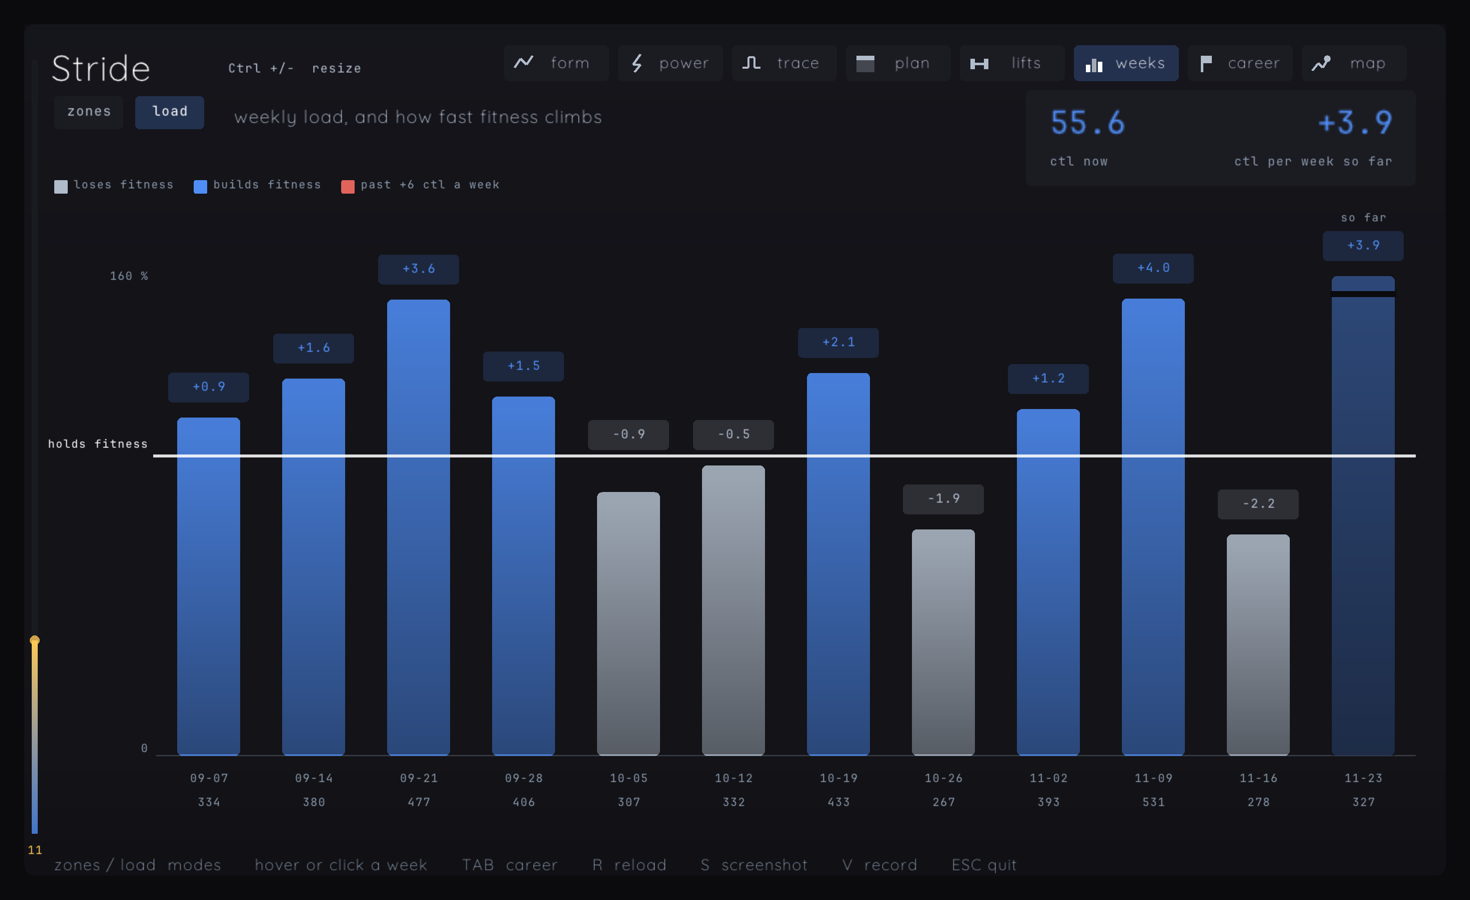
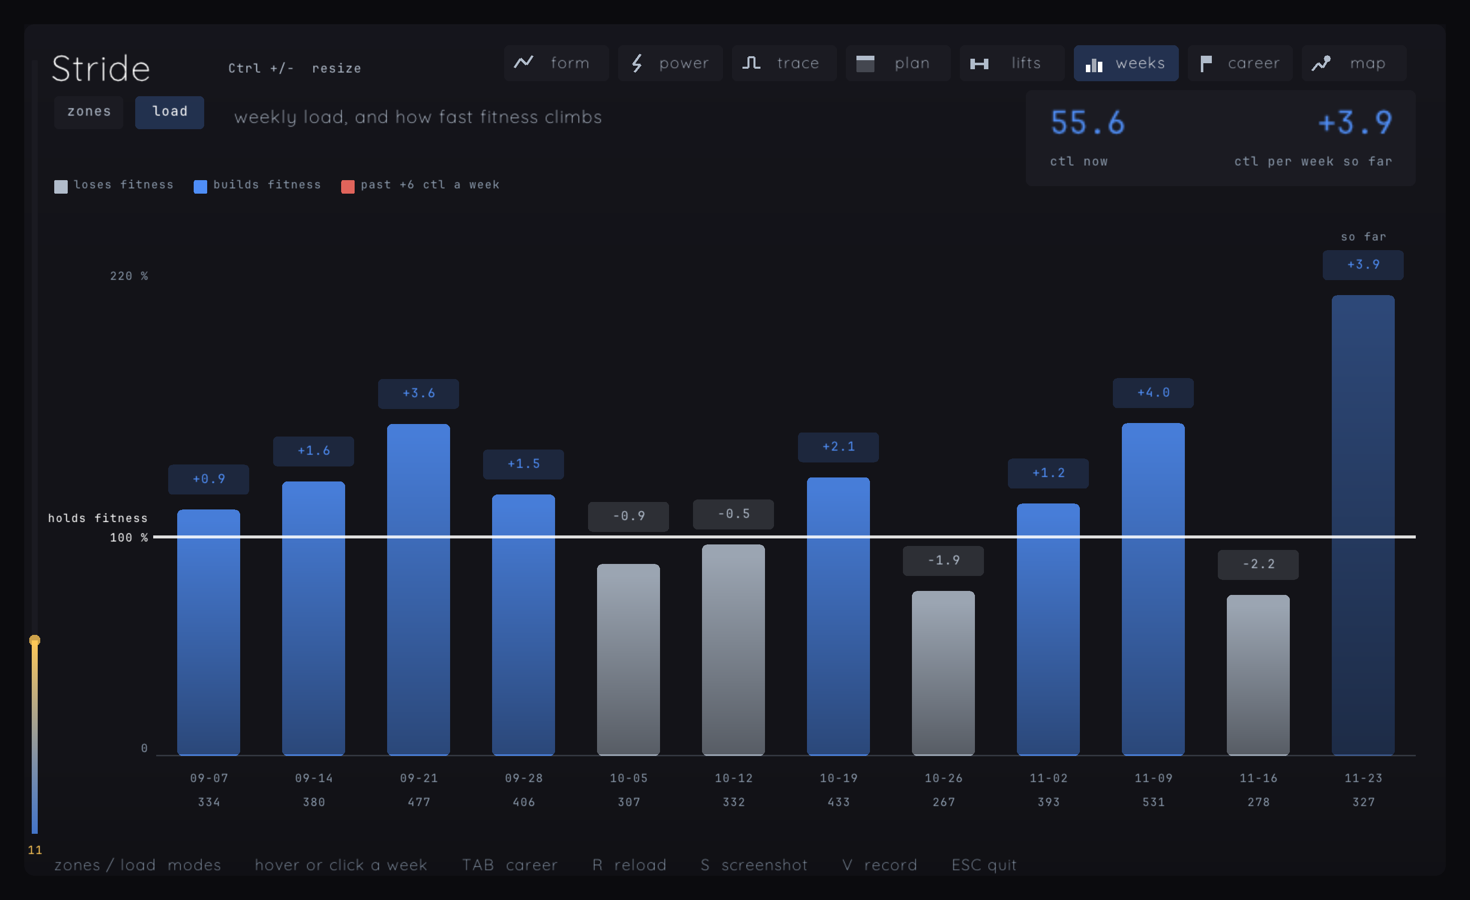
fix(viz): the load scale fits every week's bar, and its line reads 100 %
The load mode's scale now tops at the largest share of any week shown,
the running week's included, rounded up to a ten from the unrounded
share and at least 120%. No bar is clipped or drawn broken any more,
and the 300% cap is gone: a new athlete's early weeks, over tiny holds,
can set a tall scale, with the line low on the plot and the chips still
reading each week's CTL change. Rounding from the unrounded share also
keeps a week at 150.29% of its hold whole under a 160% top.

The line reads its value, "100 %", in the gutter where it crosses, as
the zones mode reads its 80 %, under its name, "holds fitness". The
scale's 0 gives way when a tall scale puts the line near the floor.

Claude-Session: https://claude.ai/code/session_01LZyJgCXaF3nbnKJeRgjMBg

Changed region(s): [[0.0306, 0.28, 0.949, 0.6844], [0.8878, 0.2489, 0.9796, 0.3422], [0.0306, 0.56, 0.0918, 0.5911]]

diff --git a/docs/viz.md b/docs/viz.md
@@ -187,15 +187,15 @@ the week's load as a share of its hold level, the load that would have left
 CTL where the week started: CTL at the week's start times the days the week
 counts (`core.Load.hold`), since a day whose load equals CTL is the fixed
 point of the recurrence the engine builds `daily_load` with, and that
-recurrence lives in the same module. So one white line at 100%, labelled
-"holds fitness" just above it in the gutter, serves every week: a bar over
-it gained fitness and one under it lost fitness, except within a narrow
-band around the line: the recurrence weighs a late day above an early one
-and the hold weighs every day alike, so a week whose load lands on its
-first day can top its hold and still lose up to 1.07% of its starting CTL,
-and one whose load lands on its last day can fall short of it and still
-gain up to 1.12%. `core.Load` derives both bounds from the recurrence and
-pins them.
+recurrence lives in the same module. So one white line at 100% serves every
+week, read in the gutter where it crosses as "100 %" under its name, "holds
+fitness": a bar over it gained fitness and one under it lost fitness,
+except within a narrow band around the line: the recurrence weighs a late
+day above an early one and the hold weighs every day alike, so a week whose
+load lands on its first day can top its hold and still lose up to 1.07% of
+its starting CTL, and one whose load lands on its last day can fall short
+of it and still gain up to 1.12%. `core.Load` derives both bounds from the
+recurrence and pins them.
 
 Each bar wears a chip with the CTL the week gained, and bar and chip share
 the verdict's color: muted for a week that held or lost fitness, blue for
@@ -206,19 +206,18 @@ above it. The figure under each bar is the week's load. The card carries
 where fitness stands and how fast it is moving, "ctl per week so far" for
 the running week.
 
-The finished weeks set the scale: its top is the highest finished share
-rounded up to a ten, at least 120% and at most 300%. The running week does
-not set it: its hold counts only the days it has had, so one long ride on a
-Monday reads as a share far over the line, and scaling to it would squeeze
-every finished bar to a sliver. A bar past the top, the running week's or
-a finished week's past 300% (a new athlete's second week, over a tiny
-hold), is clipped there and drawn broken just under its top; its chip
-still carries the week's real CTL change. The weeks come from the
-`weekly_ramp` view - the one definition of weekly ramp; a week's start is
-its end-of-week CTL less its ramp, except a week that begins on or before
-the first day of history, which started from zero CTL (the engine walks
-`daily_load` from zero), has no hold to share and keeps a stub. A directive
-with view 7 opens it.
+The scale fits the tallest bar, the running week's included: its top is
+the largest share of any week shown, rounded up to a ten, and at least
+120%, so no bar is ever cut short. The running week's hold counts only the
+days it has had, so one long ride early in the week can make it the
+tallest bar and lift the top. A new athlete's early weeks sit over tiny
+holds and can set a tall scale, the line low on the plot and the later
+weeks short beside them; the chips still read each week's CTL change. The
+weeks come from the `weekly_ramp` view - the one definition of weekly
+ramp; a week's start is its end-of-week CTL less its ramp, except a week
+that begins on or before the first day of history, which started from
+zero CTL (the engine walks `daily_load` from zero), has no hold to share
+and keeps a stub. A directive with view 7 opens it.
 
 ![The ramp view](img/ramp.png)
 
@@ -831,8 +830,8 @@ sport no family holds. The fixtures per view:
   other athlete, and the newest still running, with no week picked, on a
   picked week, with no history, and at the load
   mode's edges (a first week with no hold, a week just under its hold, and
-  a running week two days in past the scale's top), in the brand faces and
-  in the built-in face;
+  a running week two days in that sets the scale's top), in the brand
+  faces and in the built-in face;
 - lifts: more lifts than the widest window holds and the latest session's
   sets, in kilograms and scrolled in pounds, for every athlete who lifts,
   and the empty tab for every athlete who does not;
